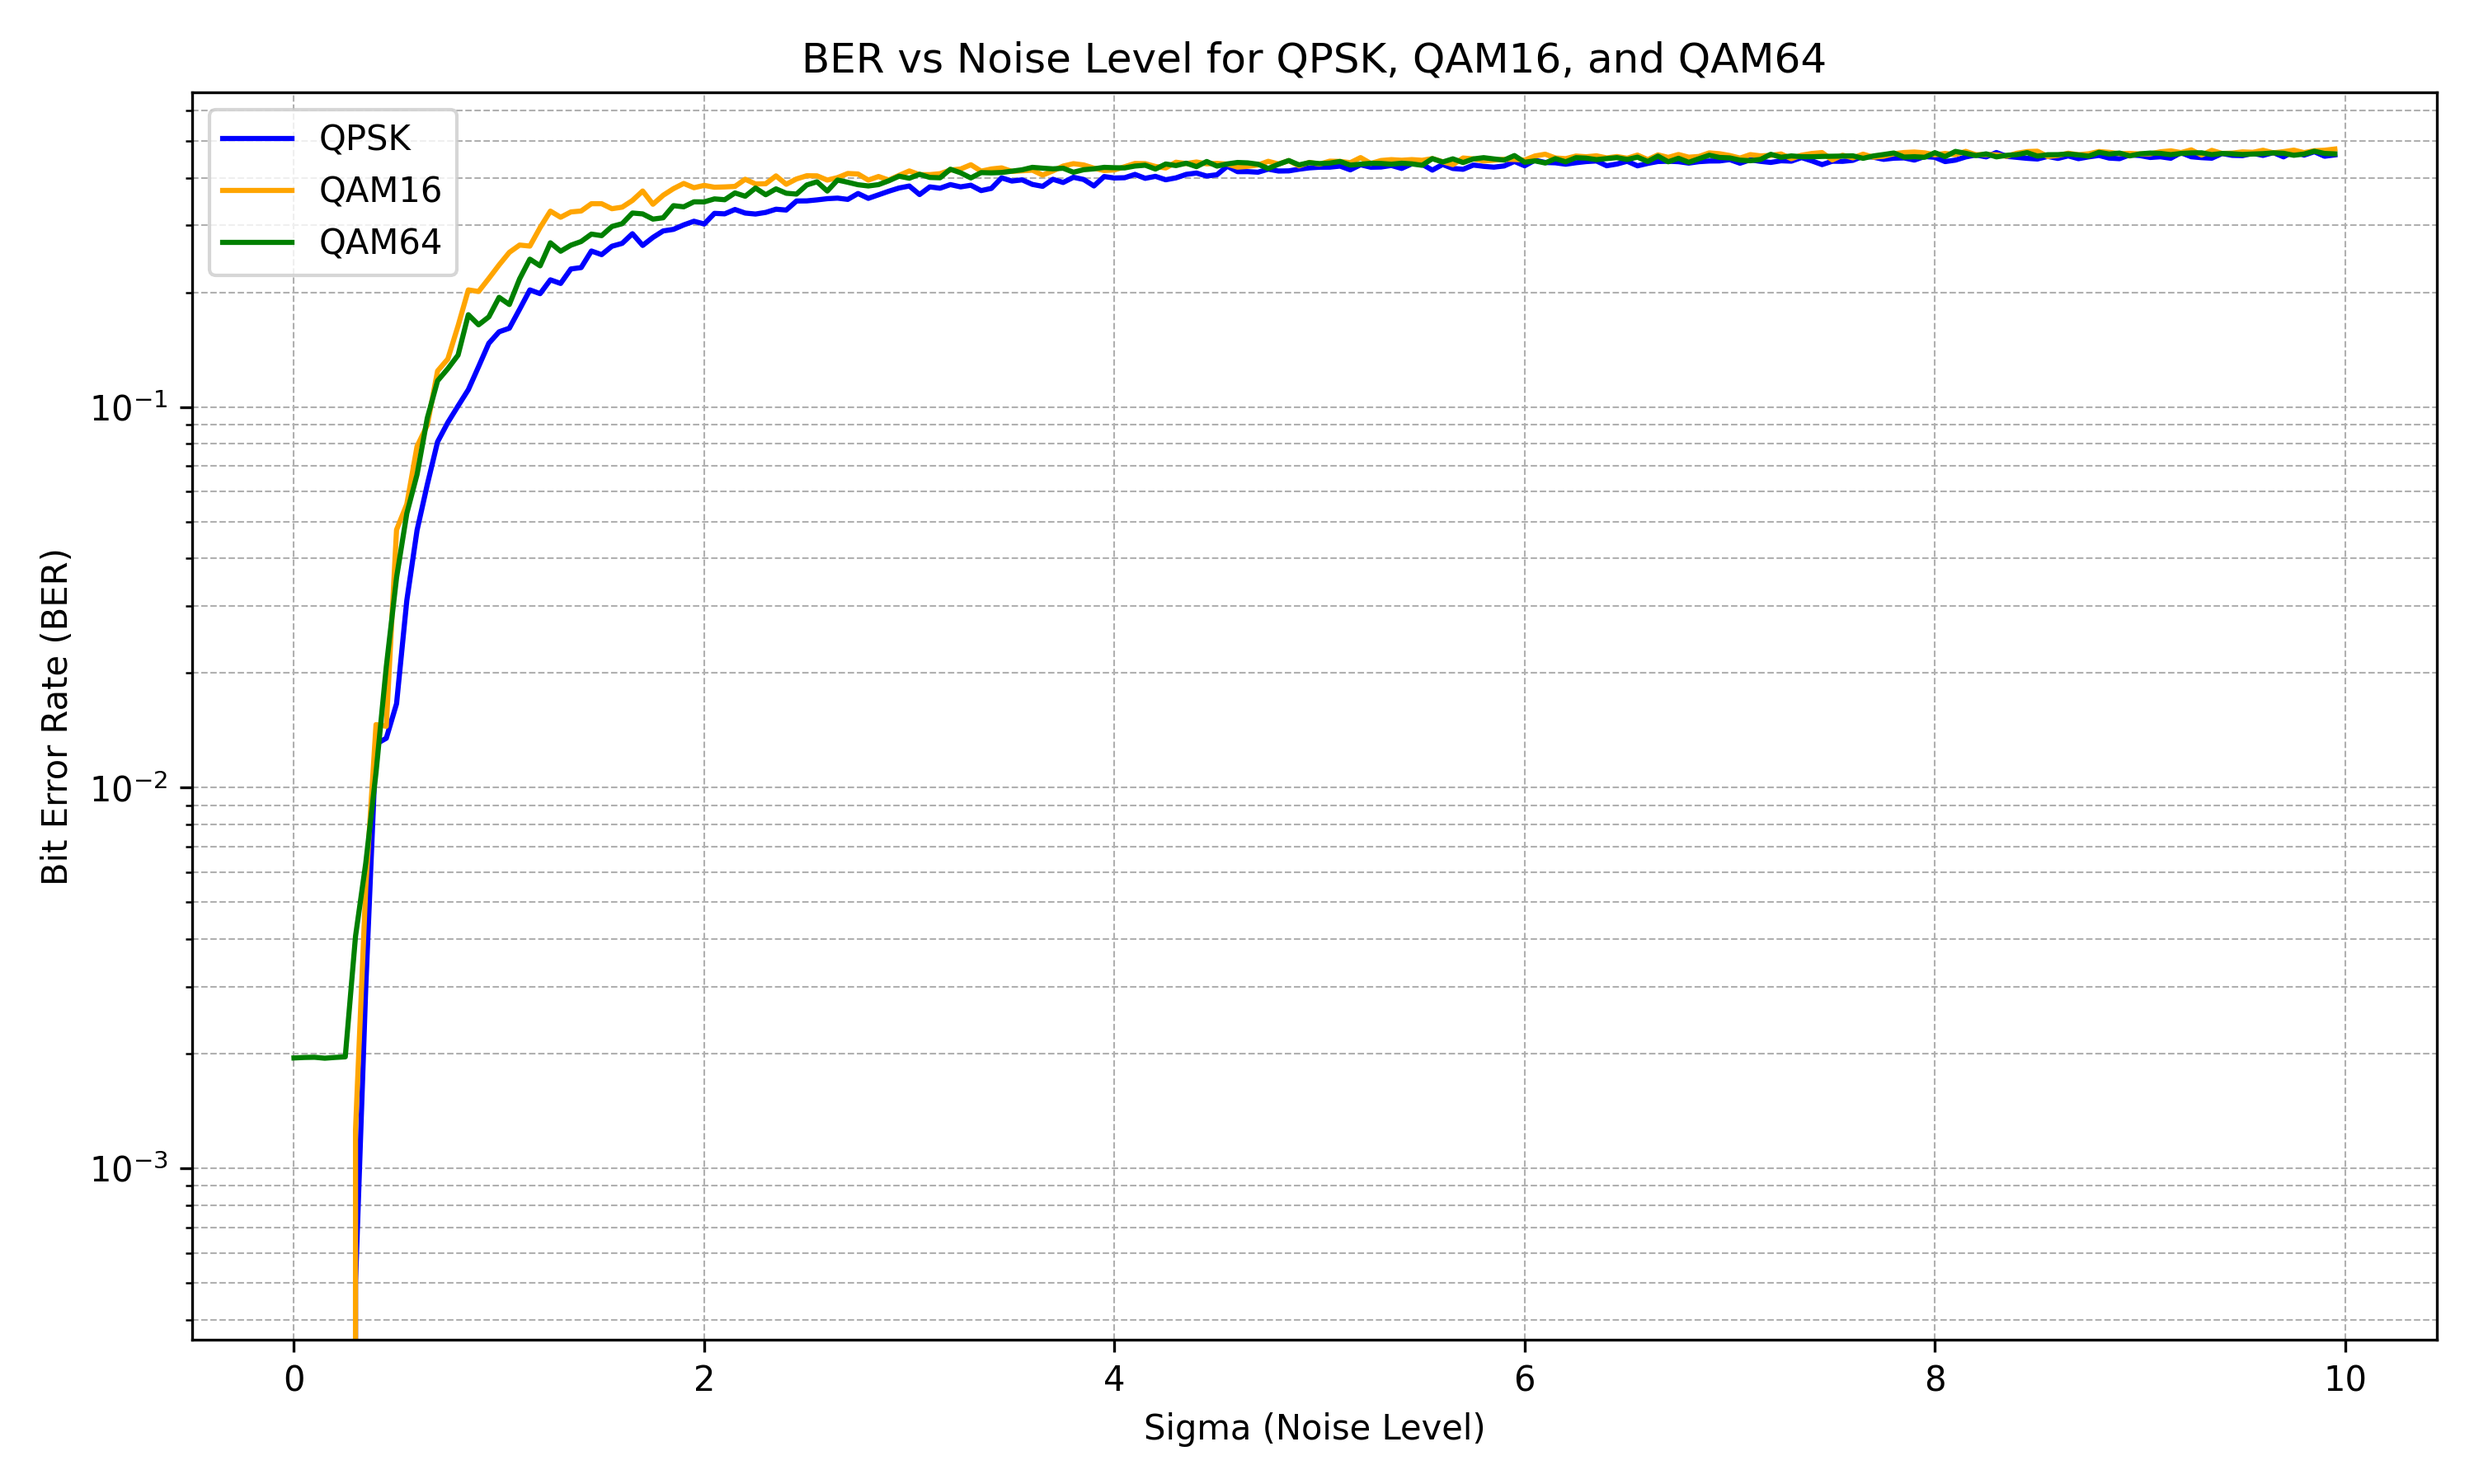
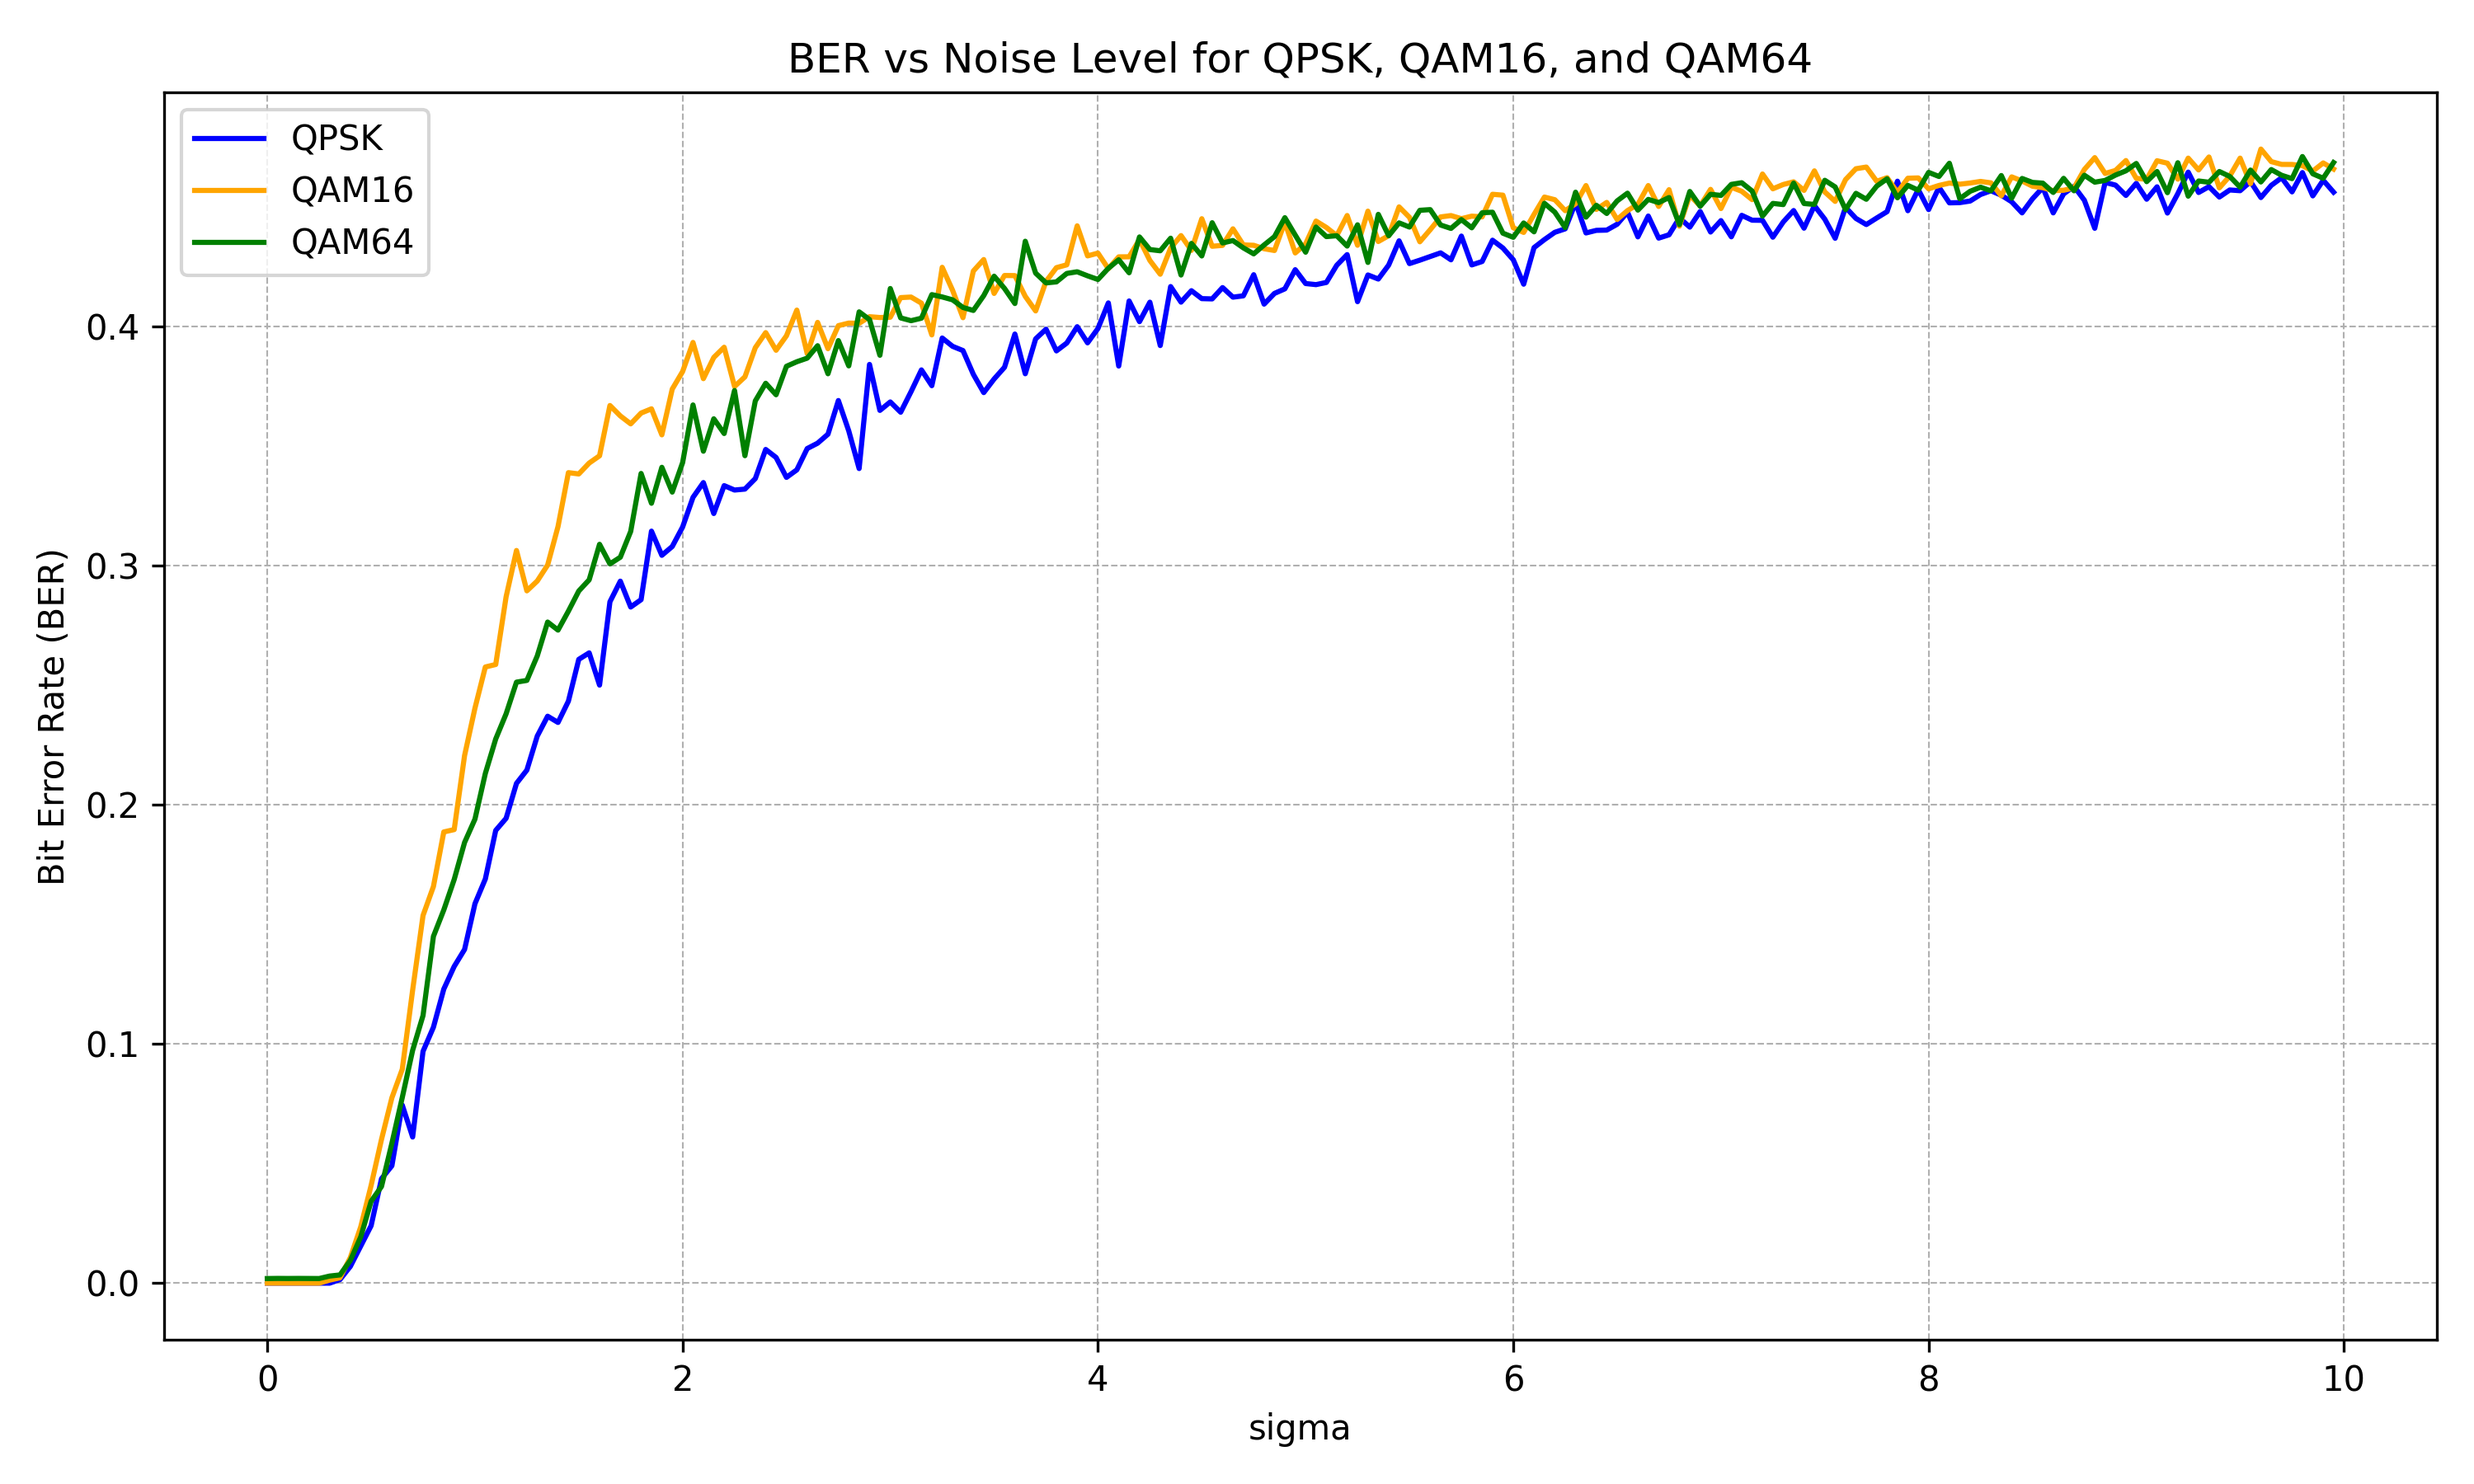
minor update

diff --git a/graph.py b/graph.py
@@ -12,7 +12,7 @@ plt.plot(qpsk_data['sigma'], qpsk_data['ber'], label='QPSK', color='blue')
 plt.plot(qam16_data['sigma'], qam16_data['ber'], label='QAM16', color='orange')
 plt.plot(qam64_data['sigma'], qam64_data['ber'], label='QAM64', color='green')
 
-plt.xlabel('Sigma (Noise Level)')
+plt.xlabel('sigma')
 plt.ylabel('Bit Error Rate (BER)')
 plt.title('BER vs Noise Level for QPSK, QAM16, and QAM64')
 plt.grid(True, which='both', linestyle='--', linewidth=0.5)

diff --git a/README.md b/README.md
@@ -15,4 +15,31 @@ This repository contains the solution to the task from YaDro 2025.
 4. Написать последовательный вызов 1-3 для случайной последовательности бит для разных значений дисперсия шума
 5. Построить график зависимости вероятности ошибки на бит от дисперсии шуме
 
-### Общее описание проекта
+### Output
+./build/ber_sigma_qpsk.csv
+файл с данными ber vs sigma для QPSK модуляции
+формат данных: {sigma,ber}
+
+./build/ber_sigma_qam16.csv
+файл с данными ber vs sigma для QAM16 модуляции
+формат данных: {sigma,ber}
+
+./build/ber_sigma_qam64.csv
+файл с данными ber vs sigma для QAM64 модуляции
+формат данных: {sigma,ber}
+
+### Modulation verification
+
+![](./.images/qpsk_modulation_correctly.png)
+*Тест кейс для QPSK*
+
+![](./.images/qam16_modulation_correctly.png)
+*Тест кейс для QAM16*
+
+![](./.images/qam64_modulation_correcty.png)
+*Тест кейс для QAM64*
+
+### BER vs Sigma
+
+![](/ber_comparison.png)
+*Тест кейс для QAM64*
